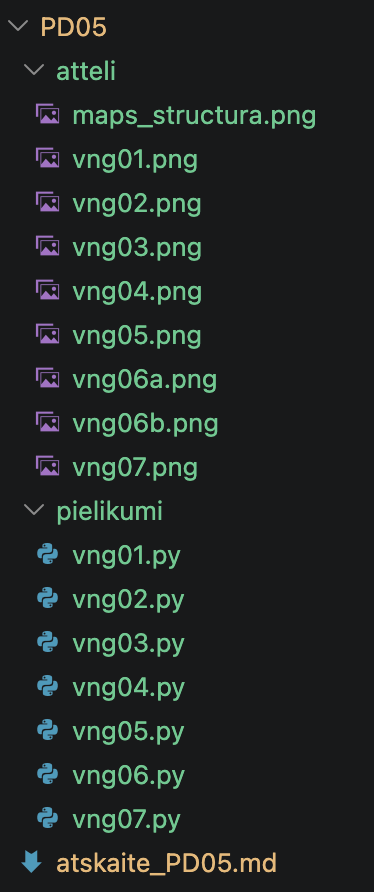
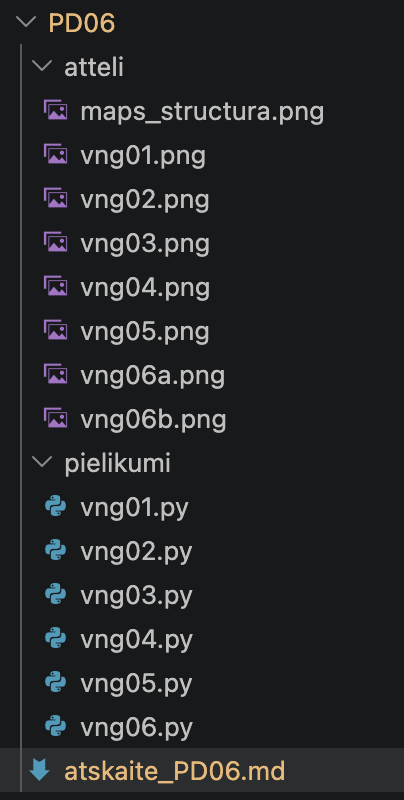
Complete lesson PD06 edit

Changed region(s): [[0.0294, 0.0, 0.8529, 1.0], [0.0294, 0.0, 0.0882, 0.0312]]

diff --git a/PD06/atskaite_PD06.md b/PD06/atskaite_PD06.md
@@ -30,20 +30,17 @@ PD06/
 │  ├─ vng03.py
 │  ├─ vng04.py
 │  ├─ vng05.py
-│  ├─ vng06.py
-│  └─ vng07.py
+│  └─ vng06.py
 ├─ atteli/
 │  ├─ maps_structure.png
 │  ├─ vng01.png
 │  ├─ vng02.png
 │  ├─ vng03.png
 │  ├─ vng04.png
-│  ├─ vng04-2.png
 │  ├─ vng05.png
 │  ├─ vng06a.png
-│  ├─ vng06b.png
-│  └─ vng07.png
-└─ atskaite_PD05.md
+│  └─ vng06b.png
+└─ atskaite_PD06.md
 ````
 
 ---